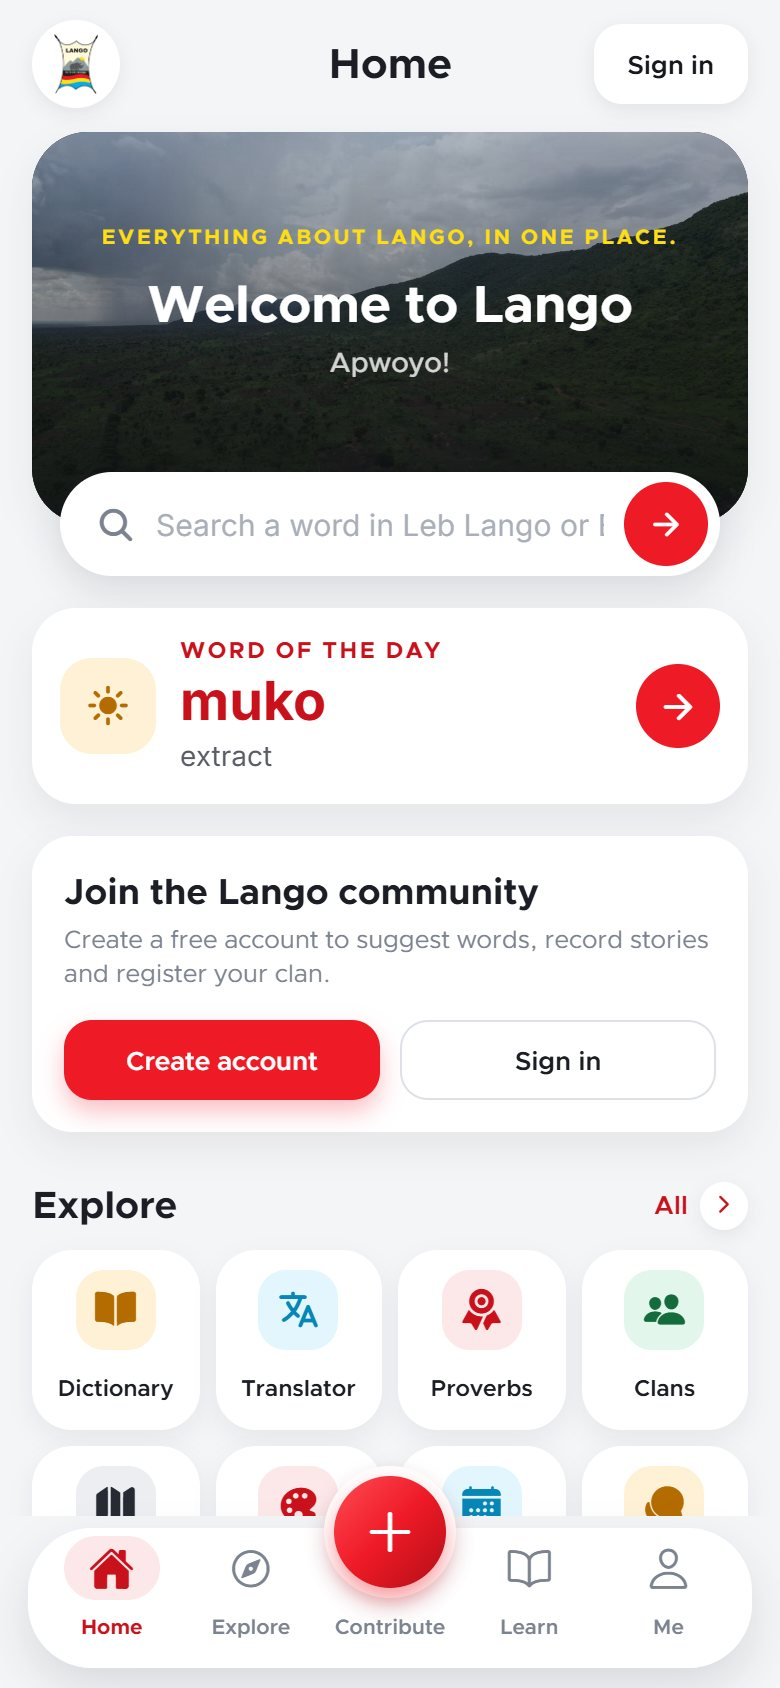
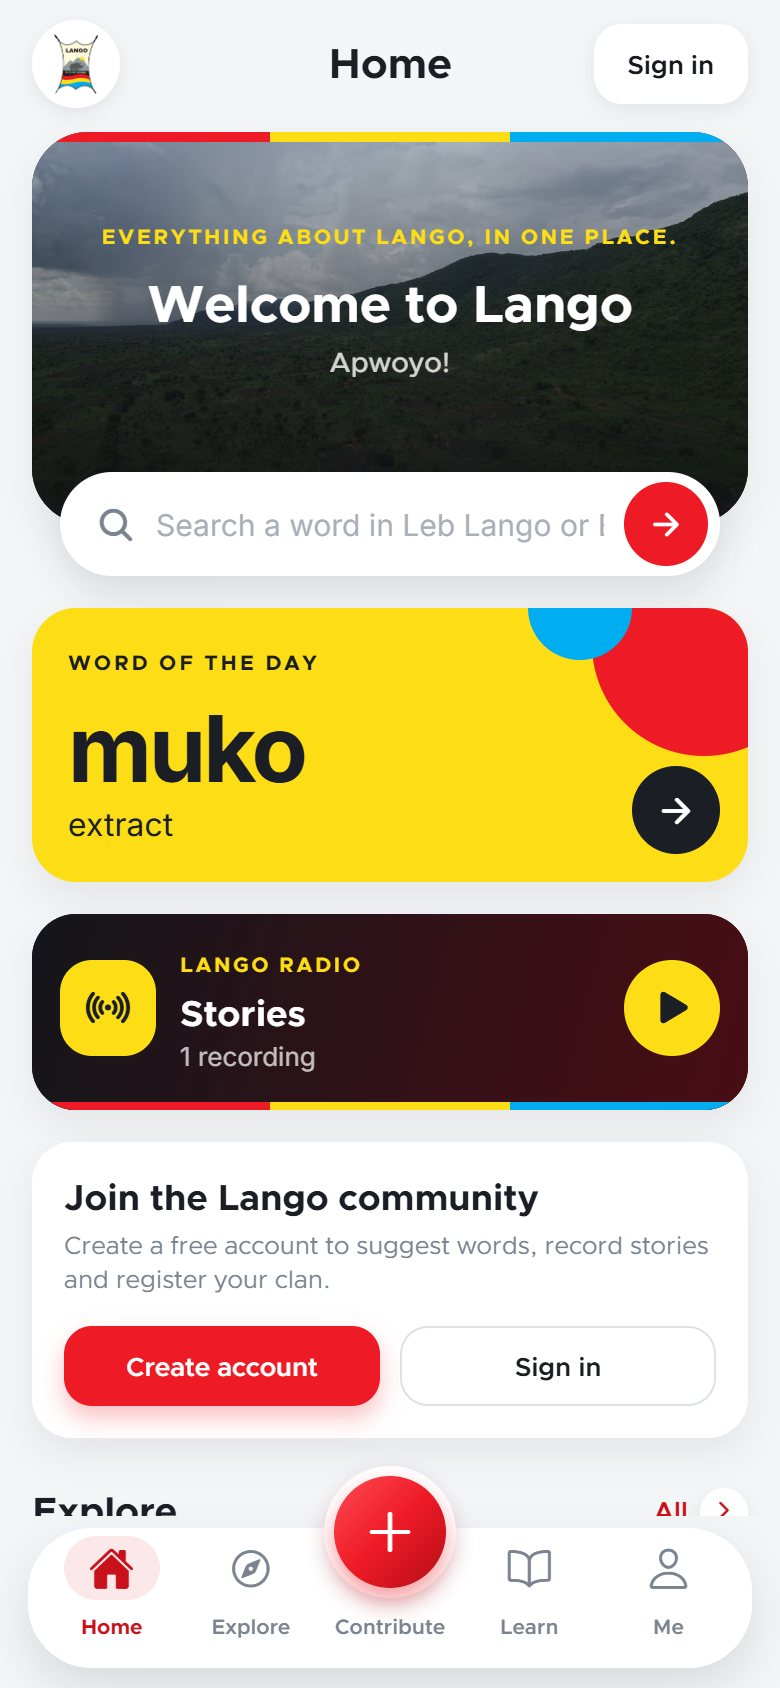
Add a Lango Radio card to Home and give Home a small twist
Home keeps its soft light design and gets:
- a Lango Radio card under the word of the day: it shows the channel on air (or
  the first channel) and a play/pause button that plays right on Home; tapping
  the text opens the Radio screen; with no channel yet it says Lango Radio is
  getting ready (components/RadioCard.jsx)
- the word of the day as a yellow poster with a big word
- a red, yellow and blue edge on the photo banner

lib/radio.js holds tuneChannel(), now shared by the Radio screen and the card.
"1 recording" is singular. The picture of the app on the website's home page shows
the new Home. Strings are regenerated; the agent notes describe the Home layout.

diff --git a/app/app/(tabs)/index.jsx b/app/app/(tabs)/index.jsx
@@ -1,5 +1,5 @@
-// Home (GET /api/v1/home): a centred title bar with the streak and the notification bell, a photo banner with the welcome and a search box
-// that overlaps it, the word of the day, a grid of shortcut tiles (Explore, Listen and read), a "Coming up" carousel of events, today's
+// Home (GET /api/v1/home): a centred title bar with the streak and the notification bell, a photo banner (with a red, yellow and blue edge)
+// with the welcome and a search box that overlaps it, the word of the day as a yellow poster, Lango Radio with a play button, a grid of shortcut tiles (Explore, Listen and read), a "Coming up" carousel of events, today's
 // cards, a notable Lango, the latest news and the donation call. Signed-in members also see their points and level. Pull down to
 // refresh; the last copy shows with no internet.
 import { useState } from 'react';
@@ -18,6 +18,7 @@ import { ChallengeCard, ClanFeedCard, ClanOfWeekCard, PhotoCard, StoryCard } fro
 import { MilestoneSheet, StreakChip } from '../../components/daily/Streaks';
 import IconTile from '../../components/IconTile';
 import Logo from '../../components/Logo';
+import RadioCard from '../../components/RadioCard';
 import Row from '../../components/Row';
 import { HeaderAction } from '../../components/ScreenHeader';
 import SectionHeader from '../../components/SectionHeader';
@@ -89,6 +90,11 @@ export default function Home() {
           <View style={styles.hero}>
             <Image source={require('../../assets/welcome/ridge.jpg')} style={StyleSheet.absoluteFill} contentFit="cover" />
             <LinearGradient colors={['rgba(14,16,20,0.2)', 'rgba(14,16,20,0.86)']} style={StyleSheet.absoluteFill} />
+            <View style={styles.flag} pointerEvents="none">
+              <View style={{ flex: 1, backgroundColor: COLORS.primary }} />
+              <View style={{ flex: 1, backgroundColor: COLORS.yellow }} />
+              <View style={{ flex: 1, backgroundColor: COLORS.sky }} />
+            </View>
             <AppText style={styles.heroEyebrow}>{t('Everything about Lango, in one place.')}</AppText>
             <AppText style={styles.heroTitle} numberOfLines={2}>
               {user ? t('Welcome back, {name}', { name: firstName(user.name) }) : t('Welcome to Lango')}
@@ -119,23 +125,22 @@ export default function Home() {
         <View style={styles.body}>
           {wotd ? (
             <Pressable onPress={() => router.push('/word-of-the-day')} accessibilityRole="button" accessibilityLabel={t('Word of the day quiz')} style={({ pressed }) => [styles.wotd, pressed && { opacity: 0.93, transform: [{ scale: 0.99 }] }]}>
-              <View style={styles.sun}>
-                <Ionicons name="sunny" size={22} color="#B46B00" />
-              </View>
-              <View style={{ flex: 1 }}>
-                <AppText variant="eyebrow">{t('Word of the day')}</AppText>
-                <AppText lango style={styles.word} numberOfLines={1}>
-                  {wotd.lango}
-                </AppText>
-                <AppText lango style={styles.meaning} numberOfLines={2}>
-                  {String(wotd.english).split(';').map((s) => s.trim()).join(' · ')}
-                </AppText>
-              </View>
+              <View style={styles.circleRed} />
+              <View style={styles.circleSky} />
+              <AppText style={styles.wotdEyebrow}>{t('Word of the day')}</AppText>
+              <AppText lango style={styles.word} numberOfLines={1}>
+                {wotd.lango}
+              </AppText>
+              <AppText lango style={styles.meaning} numberOfLines={2}>
+                {String(wotd.english).split(';').map((x) => x.trim()).join(' · ')}
+              </AppText>
               <View style={styles.go}>
                 <Ionicons name={home?.word_quiz?.answered ? 'checkmark' : 'arrow-forward'} size={20} color={COLORS.white} />
               </View>
             </Pressable>
           ) : null}
+
+          <RadioCard style={{ marginTop: SPACING.md }} />
 
           {user ? (
             <Card onPress={() => router.push('/(tabs)/me')} style={styles.stats}>
@@ -317,11 +322,14 @@ const styles = StyleSheet.create({
   search: { flexDirection: 'row', alignItems: 'center', gap: 10, marginTop: -26, marginHorizontal: 14, backgroundColor: COLORS.white, borderRadius: RADIUS.full, paddingLeft: 18, paddingRight: 6, ...SHADOW, shadowOpacity: 0.12 },
   input: { flex: 1, minHeight: 52, fontFamily: 'Inter_400Regular', fontSize: 15, color: COLORS.black },
   searchGo: { width: 42, height: 42, borderRadius: 21, backgroundColor: COLORS.primary, alignItems: 'center', justifyContent: 'center' },
-  wotd: { flexDirection: 'row', alignItems: 'center', gap: 12, marginTop: SPACING.md, backgroundColor: COLORS.white, borderRadius: RADIUS.lg + 2, padding: 14, ...SHADOW },
-  sun: { width: 48, height: 48, borderRadius: 16, backgroundColor: '#FFF1D6', alignItems: 'center', justifyContent: 'center' },
-  word: { fontFamily: 'Inter_700Bold', fontSize: 27, lineHeight: 34, color: COLORS.primaryDark },
-  meaning: { fontFamily: 'Inter_400Regular', fontSize: 14, lineHeight: 20, color: COLORS.gray900 },
-  go: { width: 42, height: 42, borderRadius: 21, backgroundColor: COLORS.primary, alignItems: 'center', justifyContent: 'center' },
+  flag: { position: 'absolute', left: 0, right: 0, top: 0, height: 5, flexDirection: 'row' },
+  wotd: { overflow: 'hidden', marginTop: SPACING.md, backgroundColor: COLORS.yellow, borderRadius: RADIUS.lg + 2, paddingHorizontal: 18, paddingTop: 16, paddingBottom: 18, ...SHADOW },
+  circleRed: { position: 'absolute', right: -34, top: -38, width: 112, height: 112, borderRadius: 56, backgroundColor: COLORS.primary },
+  circleSky: { position: 'absolute', right: 58, top: -26, width: 52, height: 52, borderRadius: 26, backgroundColor: COLORS.sky },
+  wotdEyebrow: { fontFamily: FONTS.bold, fontSize: 10.5, letterSpacing: 1.4, textTransform: 'uppercase', color: COLORS.black },
+  word: { fontFamily: 'Inter_700Bold', fontSize: 46, lineHeight: 54, letterSpacing: -1.5, color: COLORS.black, marginTop: 4, paddingRight: 56 },
+  meaning: { fontFamily: 'Inter_400Regular', fontSize: 16, lineHeight: 22, color: COLORS.black, paddingRight: 64 },
+  go: { position: 'absolute', right: 14, bottom: 14, width: 44, height: 44, borderRadius: 22, backgroundColor: COLORS.black, alignItems: 'center', justifyContent: 'center' },
   stats: { marginTop: SPACING.md },
   join: { marginTop: SPACING.md },
   statsRow: { flexDirection: 'row', alignItems: 'center', justifyContent: 'space-between', gap: 10 },

diff --git a/app/components/RadioCard.jsx b/app/components/RadioCard.jsx
@@ -1,0 +1,90 @@
+// Lango Radio on Home: a dark card with the channel on air (or the first one) and a play button that starts it from right here.
+// The card itself opens the Radio screen. With no channel yet it says Lango Radio is getting ready, and nothing is invented.
+import { useState } from 'react';
+import { Pressable, StyleSheet, View } from 'react-native';
+import Ionicons from '@expo/vector-icons/Ionicons';
+import { LinearGradient } from 'expo-linear-gradient';
+import { router } from 'expo-router';
+import AppText from './AppText';
+import { COLORS, FONTS, RADIUS, SHADOW } from '../constants/theme';
+import { errorMessage } from '../lib/api';
+import { useT } from '../lib/i18n';
+import { currentTrack, toggle, usePlayer } from '../lib/player';
+import { tuneChannel } from '../lib/radio';
+import { useFetch } from '../lib/useFetch';
+
+export default function RadioCard({ style }) {
+  const { t } = useT();
+  const { data } = useFetch('/radio');
+  const channels = data?.data ?? [];
+  const p = usePlayer();
+  const track = currentTrack(p);
+  const onAir = p.key?.startsWith('radio:') ? channels.find((c) => p.key === `radio:${c.id}`) : null;
+  const channel = onAir ?? channels[0];
+  const [busy, setBusy] = useState(false);
+  const [note, setNote] = useState('');
+
+  async function play() {
+    if (!channel) return;
+    if (onAir) return toggle();
+    setBusy(true);
+    setNote('');
+    try {
+      if ((await tuneChannel(channel)) === 'empty') setNote(t('This channel has nothing to play yet.'));
+    } catch (e) {
+      setNote(errorMessage(e));
+    } finally {
+      setBusy(false);
+    }
+  }
+
+  const playing = !!onAir && p.playing;
+
+  return (
+    <View style={[styles.card, style]}>
+      <LinearGradient colors={['#14161B', '#4A0D14']} start={{ x: 0, y: 0 }} end={{ x: 1, y: 1 }} style={StyleSheet.absoluteFill} />
+      <Pressable onPress={() => router.push('/radio')} accessibilityRole="button" accessibilityLabel={t('Lango Radio')} style={styles.main}>
+        <View style={styles.badge}>
+          <Ionicons name="radio" size={22} color={COLORS.black} />
+        </View>
+        <View style={{ flex: 1 }}>
+          <View style={styles.eyebrowRow}>
+            {playing ? <View style={styles.dot} /> : null}
+            <AppText style={styles.eyebrow}>{playing ? t('On air') : t('Lango Radio')}</AppText>
+          </View>
+          <AppText style={styles.title} numberOfLines={1}>
+            {channel ? (onAir && track ? track.title : channel.name) : t('Lango Radio is getting ready')}
+          </AppText>
+          <AppText style={styles.sub} numberOfLines={1}>
+            {note || (channel ? (onAir && track?.credit ? track.credit : channel.description || (channel.source === 'stream' ? t('Live radio') : channel.count === 1 ? t('1 recording') : t('{n} recordings', { n: channel.count }))) : t('Channels appear here as soon as they are set up.'))}
+          </AppText>
+        </View>
+      </Pressable>
+      {channel ? (
+        <Pressable onPress={play} hitSlop={8} accessibilityRole="button" accessibilityLabel={playing ? t('Pause') : t('Play')} style={styles.play}>
+          <Ionicons name={busy ? 'hourglass-outline' : playing ? 'pause' : 'play'} size={22} color={COLORS.black} style={!playing && !busy ? { marginLeft: 2 } : undefined} />
+        </Pressable>
+      ) : (
+        <Ionicons name="chevron-forward" size={20} color="rgba(255,255,255,0.6)" />
+      )}
+      <View style={styles.flag} pointerEvents="none">
+        <View style={{ flex: 1, backgroundColor: COLORS.primary }} />
+        <View style={{ flex: 1, backgroundColor: COLORS.yellow }} />
+        <View style={{ flex: 1, backgroundColor: COLORS.sky }} />
+      </View>
+    </View>
+  );
+}
+
+const styles = StyleSheet.create({
+  card: { flexDirection: 'row', alignItems: 'center', gap: 12, overflow: 'hidden', borderRadius: RADIUS.lg + 2, padding: 14, paddingBottom: 18, backgroundColor: COLORS.navy, ...SHADOW },
+  main: { flex: 1, flexDirection: 'row', alignItems: 'center', gap: 12 },
+  badge: { width: 48, height: 48, borderRadius: 16, backgroundColor: COLORS.yellow, alignItems: 'center', justifyContent: 'center' },
+  eyebrowRow: { flexDirection: 'row', alignItems: 'center', gap: 6 },
+  dot: { width: 8, height: 8, borderRadius: 4, backgroundColor: COLORS.primary },
+  eyebrow: { fontFamily: FONTS.bold, fontSize: 10.5, letterSpacing: 1.2, textTransform: 'uppercase', color: COLORS.yellow },
+  title: { fontFamily: FONTS.bold, fontSize: 18, lineHeight: 24, color: COLORS.white, marginTop: 1 },
+  sub: { fontFamily: 'Inter_400Regular', fontSize: 13, lineHeight: 18, color: 'rgba(255,255,255,0.72)' },
+  play: { width: 48, height: 48, borderRadius: 24, backgroundColor: COLORS.yellow, alignItems: 'center', justifyContent: 'center' },
+  flag: { position: 'absolute', left: 0, right: 0, bottom: 0, height: 4, flexDirection: 'row' },
+});

diff --git a/app/app/radio.jsx b/app/app/radio.jsx
@@ -12,19 +12,11 @@ import Screen from '../components/Screen';
 import SectionHeader from '../components/SectionHeader';
 import StateView from '../components/StateView';
 import { COLORS, SPACING } from '../constants/theme';
-import api, { errorMessage } from '../lib/api';
+import { errorMessage } from '../lib/api';
 import { useT } from '../lib/i18n';
-import { currentTrack, playLive, playQueue, toggle, usePlayer } from '../lib/player';
+import { currentTrack, toggle, usePlayer } from '../lib/player';
+import { tuneChannel } from '../lib/radio';
 import { useFetch } from '../lib/useFetch';
-
-const shuffled = (list) => {
-  const a = [...list];
-  for (let i = a.length - 1; i > 0; i--) {
-    const j = Math.floor(Math.random() * (i + 1));
-    [a[i], a[j]] = [a[j], a[i]];
-  }
-  return a;
-};
 
 export default function Radio() {
   const { t } = useT();
@@ -41,14 +33,7 @@ export default function Radio() {
     setBusy(c.id);
     setNote('');
     try {
-      if (c.source === 'stream') await playLive(c);
-      else {
-        const { data: r } = await api.get(`/radio/${c.id}`);
-        let tracks = r.data.tracks ?? [];
-        if (!tracks.length) return setNote(t('This channel has nothing to play yet.'));
-        if (shuffle && tracks.length > 1) tracks = shuffled(tracks);
-        await playQueue(tracks, 0, { loop: true, label: c.name, route: '/radio', key: `radio:${c.id}` });
-      }
+      if ((await tuneChannel(c, shuffle)) === 'empty') setNote(t('This channel has nothing to play yet.'));
     } catch (e) {
       setNote(errorMessage(e));
     } finally {
@@ -96,7 +81,7 @@ export default function Radio() {
               icon={c.cover ? undefined : 'radio-outline'}
               iconTone={active ? 'red' : 'sky'}
               title={c.name}
-              subtitle={c.description || (c.source === 'stream' ? t('Live radio') : t('{n} recordings', { n: c.count }))}
+              subtitle={c.description || (c.source === 'stream' ? t('Live radio') : c.count === 1 ? t('1 recording') : t('{n} recordings', { n: c.count }))}
               onPress={() => (active ? toggle() : tune(c))}
               right={
                 <Pressable onPress={() => (active ? toggle() : tune(c))} hitSlop={8} accessibilityLabel={active && p.playing ? t('Pause') : t('Play')} style={styles.play}>

diff --git a/app/lib/radio.js b/app/lib/radio.js
@@ -1,0 +1,27 @@
+// Starting a Lango Radio channel (shared by the Radio screen and the radio card on Home): a live stream plays at once; a playlist, or the
+// channel with every podcast episode, loads its recordings (mixed up when asked) and keeps looping.
+import api from './api';
+import { playLive, playQueue } from './player';
+
+const shuffled = (list) => {
+  const a = [...list];
+  for (let i = a.length - 1; i > 0; i--) {
+    const j = Math.floor(Math.random() * (i + 1));
+    [a[i], a[j]] = [a[j], a[i]];
+  }
+  return a;
+};
+
+/** Plays a channel. Returns 'empty' when it has nothing to play yet; a failed request throws, for the caller to show. */
+export async function tuneChannel(c, shuffle = true) {
+  if (c.source === 'stream') {
+    await playLive(c);
+    return undefined;
+  }
+  const { data: r } = await api.get(`/radio/${c.id}`);
+  let tracks = r.data.tracks ?? [];
+  if (!tracks.length) return 'empty';
+  if (shuffle && tracks.length > 1) tracks = shuffled(tracks);
+  await playQueue(tracks, 0, { loop: true, label: c.name, route: '/radio', key: `radio:${c.id}` });
+  return undefined;
+}

diff --git a/app/AGENTS.md b/app/AGENTS.md
@@ -24,7 +24,7 @@ npm run pwa                  # build the web app into ../web/pwa
   outside it: `components/`, `lib/`, `constants/`.
 - JavaScript only (`.js` / `.jsx`). Every file starts with a short comment saying what it is for.
 - Every screen handles loading, error and empty states — use `components/StateView.jsx`.
-- Brand: the colours are the Lango palette (`COLORS` in `constants/theme.js`); the logo is the coat-style Lango emblem (`assets/logo-mark.png`), never redrawn or recoloured, and never replaced by a letter mark; the layout is a soft light UI (cool grey canvas, white rounded cards with wide soft shadows, rounded-rectangle buttons with a red glow, grey filled text boxes with a yellow focus ring, centred headers with a round white back button, a floating white tab bar with a raised red Contribute button, yellow selected chips, a photo banner with an overlapping search box on Home, a yellow profile header on Me). Icons sit on light tints (`TONES` in `constants/theme.js`); there are no dark gradient headers. Fonts are Clarity City, with Inter for any text holding ɛ ɔ ŋ (Clarity City has no such glyphs): `AppText` switches by itself, text inputs use Inter.
+- Brand: the colours are the Lango palette (`COLORS` in `constants/theme.js`); the logo is the coat-style Lango emblem (`assets/logo-mark.png`), never redrawn or recoloured, and never replaced by a letter mark; the layout is a soft light UI (cool grey canvas, white rounded cards with wide soft shadows, rounded-rectangle buttons with a red glow, grey filled text boxes with a yellow focus ring, centred headers with a round white back button, a floating white tab bar with a raised red Contribute button, yellow selected chips, a photo banner with a red, yellow and blue edge and an overlapping search box on Home, followed by the word of the day as a yellow poster and a dark Lango Radio card with a play button (`components/RadioCard.jsx`, `lib/radio.js`), a yellow profile header on Me). Icons sit on light tints (`TONES` in `constants/theme.js`); there are no dark gradient headers. Fonts are Clarity City, with Inter for any text holding ɛ ɔ ŋ (Clarity City has no such glyphs): `AppText` switches by itself, text inputs use Inter.
   Take colours, spacing and radii from `constants/theme.js`. Use the shared components (`Card`, `Row`, `Button`, `GradientTile`, `ScreenHeader`…) rather than new one-off card styles; gradients are for headers and feature tiles only.
 - All API calls go through `lib/api.js` (Bearer token from secure storage, friendly `errorMessage()`); use `lib/useFetch.js` for GETs.
 - All visible text goes through `t('English phrase')`; run `npm run strings` after adding any. Never write Leb Lango yourself —
